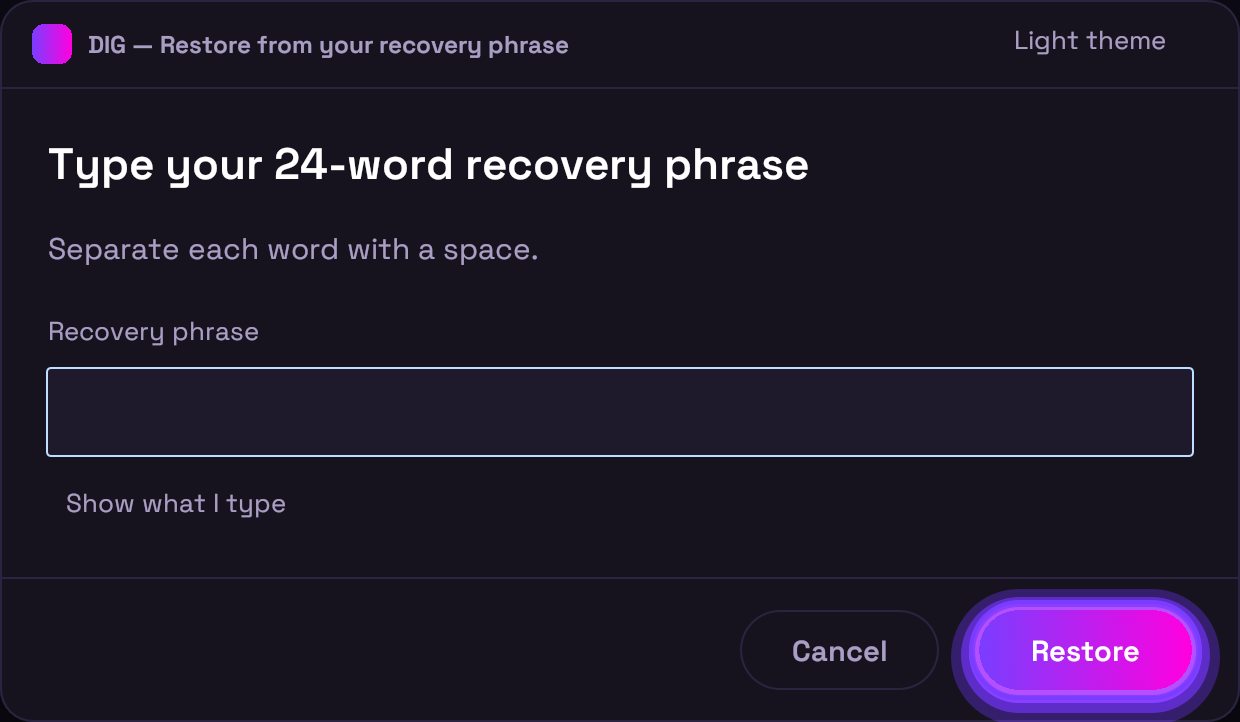
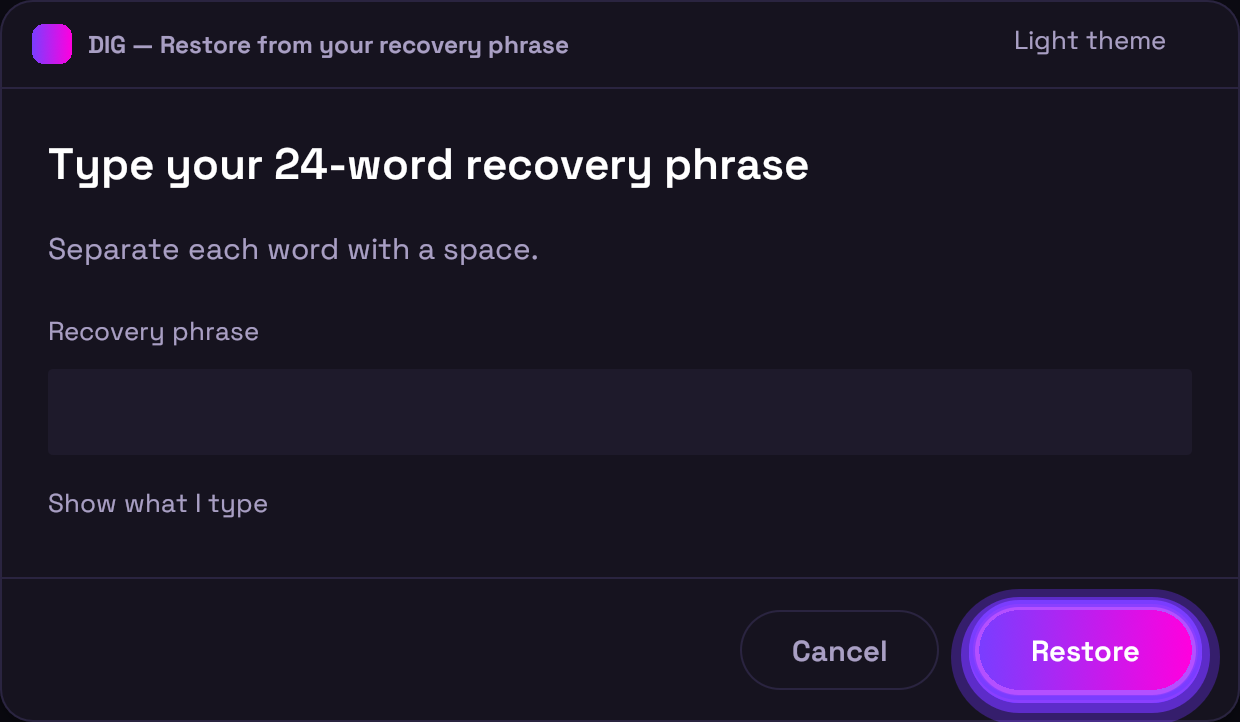
fix(confirm): align the reveal control with the column it sits in (#2038)
"Show what I type" is drawn with the same padded hit area as the chrome theme
toggle, and that control CENTRES its label inside the padding. In the chrome
that is right — the control is positioned by its own slot. In the body it is
not: it indented the label by half the padding, so it sat 9 px right of the
field label and the field directly above it, in an otherwise flush column.

`theme_toggle` and the new `inline_toggle` are now two named controls over one
private `text_control`, picking `Centred` or `Column`. An alignment enum rather
than a bool, so the call site says which it wants.

Falsified by pointing the reveal control back at `theme_toggle`: the test fails
with "the reveal control starts at x=33 and the field label at x=24 — a 9 px
indent out of the column".

Gallery reshot.

Changed region(s): [[0.0306, 0.6704, 0.2452, 0.7313], [0.0306, 0.6094, 0.0613, 0.6399]]

diff --git a/crates/dig-app-core/src/confirm/gui/paint.rs b/crates/dig-app-core/src/confirm/gui/paint.rs
@@ -261,19 +261,30 @@ fn space_x() -> f32 {
     52.0
 }
 
-/// The theme toggle in the window chrome: a small, always-reachable text control.
+/// The padding a text control puts around its label to make an honest hit area.
+const CONTROL_PAD: Vec2 = Vec2::new(18.0, 10.0);
+
+/// Where a text control's label sits inside that padding.
+enum ControlAlign {
+    /// Centred in the hit area — for a control positioned by its own slot, like the chrome toggle.
+    Centred,
+    /// Flush with the hit area's left edge — for a control sitting in a column of left-aligned text,
+    /// where centring would indent it out of line with everything above it.
+    Column,
+}
+
+/// A small text control: a label, a generous hit area, and a wash on hover.
 ///
 /// A text control rather than an icon because it must be legible to a screen reader and
 /// unambiguous without colour, and because an unlabelled sun/moon glyph is one more thing a user has
 /// to decode on a window that is asking them to authorise a spend.
-pub fn theme_toggle(ui: &mut Ui, label: &str, t: &Tokens) -> Response {
+fn text_control(ui: &mut Ui, label: &str, t: &Tokens, align: ControlAlign) -> Response {
     let galley = ui
         .painter()
         // `--muted`, not `--faint`: this is an interactive control's LABEL, so it takes AA's 4.5:1
         // text bar. `--faint` is 3.34:1 on white (#2038).
         .layout_no_wrap(label.to_owned(), regular(size::SM), rgba(t.muted));
-    let (rect, response) =
-        ui.allocate_exact_size(galley.size() + Vec2::new(18.0, 10.0), Sense::click());
+    let (rect, response) = ui.allocate_exact_size(galley.size() + CONTROL_PAD, Sense::click());
     if response.hovered() {
         ui.painter().rect_filled(
             rect,
@@ -282,12 +293,28 @@ pub fn theme_toggle(ui: &mut Ui, label: &str, t: &Tokens) -> Response {
         );
         ui.ctx().set_cursor_icon(egui::CursorIcon::PointingHand);
     }
-    ui.painter().galley(
-        rect.center() - galley.size() / 2.0,
-        galley,
-        Color32::PLACEHOLDER,
-    );
+    let pos = match align {
+        ControlAlign::Centred => rect.center() - galley.size() / 2.0,
+        ControlAlign::Column => {
+            egui::Pos2::new(rect.left(), rect.center().y - galley.size().y / 2.0)
+        }
+    };
+    ui.painter().galley(pos, galley, Color32::PLACEHOLDER);
     response
+}
+
+/// The theme toggle in the window chrome: a small, always-reachable text control.
+pub fn theme_toggle(ui: &mut Ui, label: &str, t: &Tokens) -> Response {
+    text_control(ui, label, t, ControlAlign::Centred)
+}
+
+/// A text control sitting INSIDE the body's text column — the reveal-while-typing switch.
+///
+/// Left-aligned rather than centred so its label starts on the same x as the field label and the
+/// field above it. Centring indents it by half the hit-area padding, which reads as a stray
+/// half-indent in an otherwise flush column (#2038, caught in the gallery).
+pub fn inline_toggle(ui: &mut Ui, label: &str, t: &Tokens) -> Response {
+    text_control(ui, label, t, ControlAlign::Column)
 }
 
 /// A hairline rule across `rect`'s width at `y` — hub's `--border`.

diff --git a/crates/dig-app-core/src/confirm/gui/window.rs b/crates/dig-app-core/src/confirm/gui/window.rs
@@ -547,7 +547,7 @@ impl PromptApp {
                     true => "Hide what I type",
                     false => "Show what I type",
                 };
-                if paint::theme_toggle(&mut ui, label, t).clicked() {
+                if paint::inline_toggle(&mut ui, label, t).clicked() {
                     self.revealed = !self.revealed;
                 }
             }
@@ -921,6 +921,60 @@ mod tests {
         assert!(
             tall <= HEIGHT,
             "the sign prompt asked for {tall} px, over the {HEIGHT} px cap — this may only shrink"
+        );
+    }
+
+    /// Where each drawn string's left edge landed.
+    fn drawn_text_left(shapes: &[egui::epaint::ClippedShape]) -> Vec<(String, f32)> {
+        fn walk(shape: &egui::Shape, out: &mut Vec<(String, f32)>) {
+            match shape {
+                egui::Shape::Text(text) => {
+                    out.push((text.galley.text().to_owned(), text.pos.x));
+                }
+                egui::Shape::Vec(shapes) => shapes.iter().for_each(|s| walk(s, out)),
+                _ => {}
+            }
+        }
+        let mut out = Vec::new();
+        for clipped in shapes {
+            walk(&clipped.shape, &mut out);
+        }
+        out
+    }
+
+    /// **The reveal control lines up with the column it sits in.** It is drawn with the same padded
+    /// hit area as the chrome toggle, and that control CENTRES its label — which indented "Show what
+    /// I type" by half the padding, leaving it visibly out of line with the field label directly
+    /// above it (#2038, caught in the gallery, invisible to every other test).
+    #[test]
+    fn the_reveal_control_starts_on_the_same_column_as_the_field_label() {
+        let content = InputContent {
+            title: "DIG — Restore from your recovery phrase".into(),
+            heading: "Type your 24-word recovery phrase".into(),
+            body: "Separate each word with a space.".into(),
+            field_label: "Recovery phrase".into(),
+            submit: "Restore",
+            masked: true,
+            revealable: true,
+            style: crate::confirm::InputStyle::Dialog,
+        };
+        let (_ctx, output) = painted(Screen::input(&content), true, Theme::Light);
+        let drawn = drawn_text_left(&output.shapes);
+
+        let left_of = |wanted: &str| {
+            drawn
+                .iter()
+                .find(|(text, _)| text == wanted)
+                .unwrap_or_else(|| panic!("the frame never drew {wanted:?}"))
+                .1
+        };
+        let label = left_of("Recovery phrase");
+        let reveal = left_of("Show what I type");
+        assert!(
+            (reveal - label).abs() < 1.0,
+            "the reveal control starts at x={reveal} and the field label at x={label} — \
+             a {:.0} px indent out of the column",
+            reveal - label
         );
     }
 
